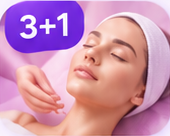
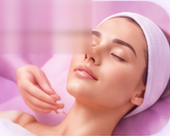
Ikram kampanya gorseli: Kampanya Ayarlari'nda galeriden foto yukle/degistir/kaldir; kartlarda yuklenen foto, yoksa hizmete uygun hazir gorsel (ayak/pedikur vb. el fotosu almaz); tasarimdan gelen gomulu N+1 rozeti fotolardan silindi

Changed region(s): [[0.0, 0.0, 0.5588, 0.4118]]

diff --git a/lib/yonetici/diger/menu/ikram/kampanya_ayarlari.dart b/lib/yonetici/diger/menu/ikram/kampanya_ayarlari.dart
@@ -1,7 +1,22 @@
+import 'dart:io';
 import 'dart:ui';
 
 import 'package:flutter/material.dart';
+import 'package:image_picker/image_picker.dart';
 import 'package:randevu_sistem/Backend/backend.dart';
+
+/// Kampanya kartı hazır görseli (işletme fotoğraf yüklemediyse), hizmet adına göre.
+/// Ayak/pedikür ve uygun görseli olmayan hizmetlerde nötr spa görseli: yanlış görsel gösterilmez.
+String ikramHazirGorsel(String hizmet) {
+  final h = hizmet.toLowerCase();
+  const ayak = ['ayak', 'pedikür', 'pedikur', 'topuk', 'nasır', 'nasir', 'batık', 'batik', 'mantar'];
+  const el = ['tırnak', 'tirnak', 'oje', 'manikür', 'manikur', 'nail', 'jel', 'protez', 'french'];
+  const yuz = ['cilt', 'yüz', 'yuz', 'hydra', 'facial', 'peeling', 'leke', 'akne', 'inci tozu'];
+  if (ayak.any(h.contains)) return 'images/ikram_foto_spa.png';
+  if (el.any(h.contains)) return 'images/ikram_foto_tirnak.png';
+  if (yuz.any(h.contains)) return 'images/ikram_foto_cilt.png';
+  return 'images/ikram_foto_spa.png';
+}
 
 /// İkram Hizmet kampanya ekle/düzenle ("Kampanya Ayarları" tasarımı).
 /// Tür: X + 1 (hediye hizmet) | İndirim (%). Kayıt: /carkAdmin/damga-karti (web ile aynı kural).
@@ -34,6 +49,9 @@ class _KampanyaAyarlariSayfasiState extends State<KampanyaAyarlariSayfasi> {
   late String _sureBirim;
   late bool _aktif;
   bool _kaydediyor = false;
+  String? _mevcutGorsel; // sunucudaki: /public/kampanya_gorselleri/...
+  String? _yeniGorsel; // galeriden seçilen yerel dosya
+  bool _gorselKaldir = false;
 
   late final List<Map<String, dynamic>> _hizmetler;
 
@@ -50,6 +68,8 @@ class _KampanyaAyarlariSayfasiState extends State<KampanyaAyarlariSayfasi> {
     _sureDeger = n('gecerlilik_deger', 0);
     _sureBirim = m?['gecerlilik_birim'] == 'gun' ? 'gun' : 'ay';
     _aktif = n('aktif', 1) == 1;
+    final g = (m?['gorsel'] ?? '').toString();
+    _mevcutGorsel = g.isEmpty ? null : g;
     // Kuraldaki hizmet artık aktif listede değilse de seçili görünsün
     _hizmetler = List<Map<String, dynamic>>.from(widget.hizmetler);
     if (_hizmetId != null && !_hizmetler.any((h) => (h['id'] as num).toInt() == _hizmetId)) {
@@ -115,6 +135,8 @@ class _KampanyaAyarlariSayfasiState extends State<KampanyaAyarlariSayfasi> {
                       child: Column(children: [
                         const SizedBox(height: 10),
                         _detayKarti(),
+                        const SizedBox(height: 12),
+                        _gorselKarti(),
                         const SizedBox(height: 12),
                         _gecerlilikKarti(),
                         const SizedBox(height: 12),
@@ -368,6 +390,103 @@ class _KampanyaAyarlariSayfasiState extends State<KampanyaAyarlariSayfasi> {
           ]),
         ),
       );
+
+  // Kampanya Görseli: işletmenin kendi fotoğrafı; yoksa hizmet adına göre hazır görsel
+  Widget _gorselKarti() {
+    final ad = _hizmetId == null ? '' : _hizmetAdi;
+    Widget onizleme;
+    String aciklama;
+    if (_yeniGorsel != null) {
+      onizleme = Image.file(File(_yeniGorsel!), fit: BoxFit.cover);
+      aciklama = 'Seçtiğiniz fotoğraf kaydedince yüklenecek.';
+    } else if (_mevcutGorsel != null && !_gorselKaldir) {
+      onizleme = Image.network('https://app.randevumcepte.com.tr$_mevcutGorsel', fit: BoxFit.cover,
+          errorBuilder: (_, __, ___) => Image.asset(ikramHazirGorsel(ad), fit: BoxFit.cover));
+      aciklama = 'Kendi fotoğrafınız kullanılıyor.';
+    } else {
+      onizleme = Image.asset(ikramHazirGorsel(ad), fit: BoxFit.cover);
+      aciklama = 'Otomatik: hizmete uygun hazır görsel. Kendi fotoğrafınızı da yükleyebilirsiniz.';
+    }
+    final kendi = _yeniGorsel != null || (_mevcutGorsel != null && !_gorselKaldir);
+    return _kart(
+      child: Column(children: [
+        _kartBaslik(Icons.image_rounded, 'Kampanya Görseli', 'Kampanya kartında görünecek fotoğraf.'),
+        const SizedBox(height: 12),
+        Row(children: [
+          ClipRRect(
+            borderRadius: BorderRadius.circular(16),
+            child: SizedBox(
+              width: 92,
+              height: 92,
+              // Kampanya kartındaki gibi köşede "N+1" etiketi
+              child: Stack(children: [
+                Positioned.fill(child: onizleme),
+                Positioned(
+                  left: 0,
+                  top: 0,
+                  child: Container(
+                    padding: const EdgeInsets.symmetric(horizontal: 9, vertical: 5),
+                    decoration: const BoxDecoration(
+                      gradient: LinearGradient(colors: [Color(0xFF7C3AED), Color(0xFF5B21B6)]),
+                      borderRadius: BorderRadius.only(bottomRight: Radius.circular(14), topLeft: Radius.circular(16)),
+                    ),
+                    child: Text('$_adet+$_hediye',
+                        style: const TextStyle(color: Colors.white, fontSize: 15, fontWeight: FontWeight.w800)),
+                  ),
+                ),
+              ]),
+            ),
+          ),
+          const SizedBox(width: 12),
+          Expanded(
+            child: Column(crossAxisAlignment: CrossAxisAlignment.start, children: [
+              Text(aciklama, style: const TextStyle(fontSize: 12, height: 1.35, color: _soluk)),
+              const SizedBox(height: 8),
+              Wrap(spacing: 8, runSpacing: 6, children: [
+                _kucukDugme(Icons.photo_library_rounded, kendi ? 'Değiştir' : 'Fotoğraf Seç', _gorselSec, dolu: true),
+                if (kendi)
+                  _kucukDugme(Icons.close_rounded, 'Kaldır', () => setState(() {
+                        _yeniGorsel = null;
+                        _gorselKaldir = true;
+                      })),
+              ]),
+            ]),
+          ),
+        ]),
+      ]),
+    );
+  }
+
+  Widget _kucukDugme(IconData ikon, String yazi, VoidCallback onTap, {bool dolu = false}) => GestureDetector(
+        onTap: onTap,
+        child: Container(
+          padding: const EdgeInsets.symmetric(horizontal: 12, vertical: 8),
+          decoration: BoxDecoration(
+            color: dolu ? _mor : Colors.white,
+            borderRadius: BorderRadius.circular(20),
+            border: Border.all(color: dolu ? _mor : const Color(0xFFE2D4F8)),
+          ),
+          child: Row(mainAxisSize: MainAxisSize.min, children: [
+            Icon(ikon, size: 16, color: dolu ? Colors.white : _morKoyu),
+            const SizedBox(width: 5),
+            Text(yazi, style: TextStyle(fontSize: 12, fontWeight: FontWeight.w700, color: dolu ? Colors.white : _morKoyu)),
+          ]),
+        ),
+      );
+
+  Future<void> _gorselSec() async {
+    try {
+      final f = await ImagePicker().pickImage(source: ImageSource.gallery, maxWidth: 1400, imageQuality: 85);
+      if (f != null && mounted) {
+        setState(() {
+          _yeniGorsel = f.path;
+          _gorselKaldir = false;
+        });
+      }
+    } catch (_) {
+      _mesaj('Fotoğraf seçilemedi', hata: true);
+    }
+  }
 
   // Geçerlilik Süresi
   Widget _gecerlilikKarti() {
@@ -711,11 +830,22 @@ class _KampanyaAyarlariSayfasiState extends State<KampanyaAyarlariSayfasi> {
       r = await carkAdminDamgaKartiKaydet(widget.salonId, {...veri, 'onay': 1});
       if (!mounted) return;
     }
-    setState(() => _kaydediyor = false);
     if (r != null && r['basarili'] == true) {
+      // Görsel: kural kaydedildikten sonra (yeni kuralda id yanıttan gelir)
+      final id = (r['id'] as num?)?.toInt() ?? (widget.mevcut?['id'] as num?)?.toInt();
+      if (id != null && (_yeniGorsel != null || (_gorselKaldir && _mevcutGorsel != null))) {
+        final g = await ikramKampanyaGorsel(widget.salonId, id, dosyaYolu: _yeniGorsel, sil: _yeniGorsel == null);
+        if (!mounted) return;
+        if (g == null || g['basarili'] != true) {
+          _mesaj('Kampanya kaydedildi ama görsel yüklenemedi: ${g?['mesaj'] ?? 'bağlantı hatası'}', hata: true);
+        }
+      }
+      if (!mounted) return;
+      setState(() => _kaydediyor = false);
       Navigator.pop(context, true);
-    } else {
-      _mesaj(r?['mesaj']?.toString() ?? 'Kaydedilemedi', hata: true);
+      return;
     }
+    setState(() => _kaydediyor = false);
+    _mesaj(r?['mesaj']?.toString() ?? 'Kaydedilemedi', hata: true);
   }
 }

diff --git a/lib/yonetici/diger/menu/ikram/ikram_hizmet.dart b/lib/yonetici/diger/menu/ikram/ikram_hizmet.dart
@@ -111,14 +111,12 @@ class _IkramHizmetPageState extends State<IkramHizmetPage> {
     return 0;
   }
 
-  /// Hizmet adına göre kampanya görseli (tasarımdaki üç fotoğraf)
-  String _foto(String hizmet) {
-    final h = hizmet.toLowerCase();
-    const tirnak = ['tırnak', 'tirnak', 'oje', 'manikür', 'manikur', 'pedikür', 'pedikur', 'nail', 'jel', 'protez', 'kalıcı'];
-    const cilt = ['cilt', 'yüz', 'yuz', 'bakım', 'bakim', 'hydra', 'facial', 'peeling', 'kirpik', 'kaş', 'kas', 'dudak', 'makyaj', 'liner', 'lazer', 'epilasyon', 'ağda', 'agda'];
-    if (tirnak.any(h.contains)) return 'images/ikram_foto_tirnak.png';
-    if (cilt.any(h.contains)) return 'images/ikram_foto_cilt.png';
-    return 'images/ikram_foto_spa.png';
+  /// Kampanya kartı görseli: işletmenin yüklediği fotoğraf, yoksa hizmete uygun hazır görsel.
+  Widget _foto(Map<String, dynamic> k, String hizmet) {
+    final hazir = Image.asset(ikramHazirGorsel(hizmet), fit: BoxFit.cover);
+    final g = (k['gorsel'] ?? '').toString();
+    if (g.isEmpty) return hazir;
+    return Image.network('https://app.randevumcepte.com.tr$g', fit: BoxFit.cover, errorBuilder: (_, __, ___) => hazir);
   }
 
   // ---------------------------------------------------------------- build
@@ -530,7 +528,7 @@ class _IkramHizmetPageState extends State<IkramHizmetPage> {
                     width: 84,
                     height: 84,
                     child: Stack(children: [
-                      Positioned.fill(child: Image.asset(_foto(hizmet), fit: BoxFit.cover)),
+                      Positioned.fill(child: _foto(k, hizmet)),
                       Positioned(
                         left: 0,
                         top: 0,

diff --git a/lib/Backend/backend.dart b/lib/Backend/backend.dart
@@ -6991,6 +6991,27 @@ Future<Map<String, dynamic>?> carkAdminDamgaKartiSil(String salonId, int id) =>
 Future<Map<String, dynamic>?> ikramHizmetYonetimGetir(String salonId, {int donem = 30}) =>
     _carkAdminGetJson('carkAdmin/damga-karti/$salonId?musteriler=1&ozet=1&donem=$donem');
 
+/// Ikram kampanya gorseli: dosyaYolu verilirse yukler, sil=true ise kaldirir.
+/// { basarili, gorsel: '/public/kampanya_gorselleri/...' | null, mesaj? }
+Future<Map<String, dynamic>?> ikramKampanyaGorsel(String salonId, int kuralId,
+    {String? dosyaYolu, bool sil = false}) async {
+  try {
+    final kimlik = await _isletmeIstekKimligi();
+    final req = http.MultipartRequest('POST', Uri.parse('$_apiBase/carkAdmin/damga-karti-gorsel/$salonId'))
+      ..headers['Accept'] = 'application/json'
+      ..fields['id'] = '$kuralId';
+    if (kimlik.token != null) req.headers['Authorization'] = 'Bearer ${kimlik.token}';
+    if (sil) req.fields['sil'] = '1';
+    if (dosyaYolu != null) req.files.add(await http.MultipartFile.fromPath('dosya', dosyaYolu));
+    final res = await http.Response.fromStream(await req.send().timeout(const Duration(seconds: 90)));
+    final b = json.decode(res.body);
+    if (b is Map) return Map<String, dynamic>.from(b);
+  } catch (e) {
+    log('ikramKampanyaGorsel: $e');
+  }
+  return null;
+}
+
 /// Musteri: Ikram Hizmetlerim { basarili, toplam_hak, toplam_kazanilan, kartlar: [...] }
 Future<Map<String, dynamic>?> musteriIkramHizmetleri(String salonId, String userId) =>
     _carkAdminGetJson('musteri/ikram-hizmetleri?salon_id=$salonId&user_id=$userId');
